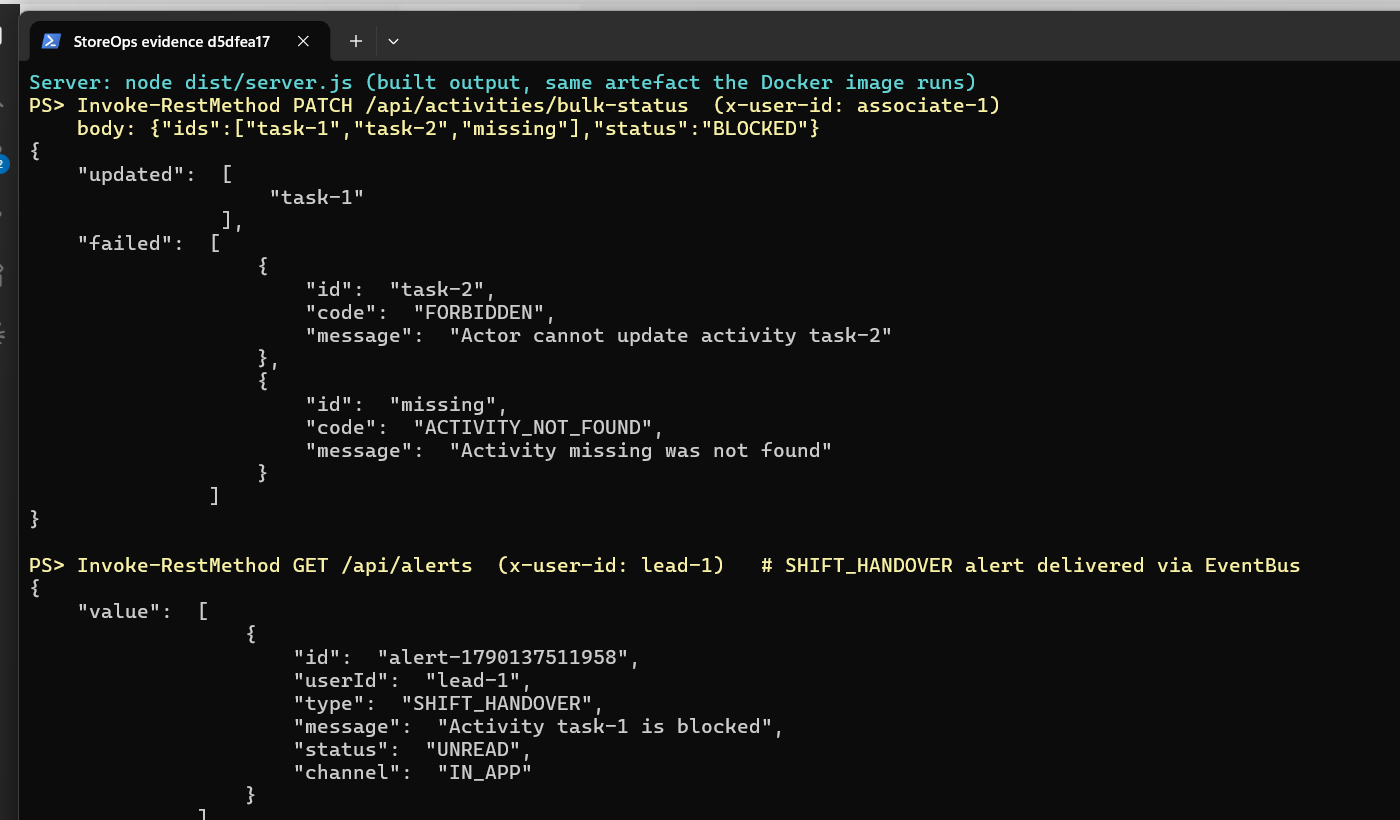
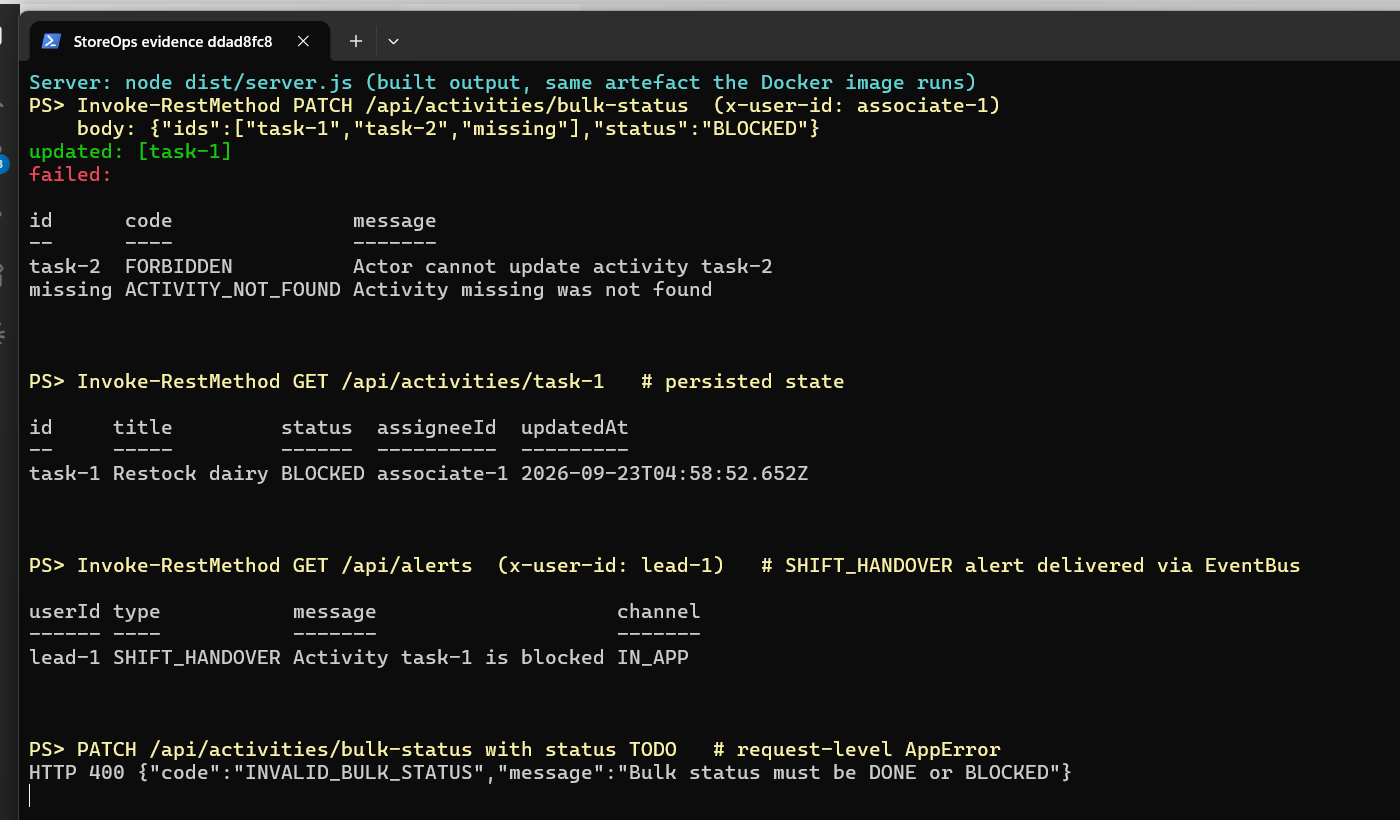
evidence: Docker deployment screenshots and evidence index
Container storeops-api built with docker compose, healthy, serving PATCH /api/activities/bulk-status. Removed screenshots of superseded file versions.

diff --git a/DEPLOYMENT.md b/DEPLOYMENT.md
@@ -1,7 +1,7 @@
 # Deployment
 
 ## Target
-**Local Docker** (the minimum accepted option), using `Dockerfile` and `docker-compose.yml`. A plain Node run is documented as the fallback, and that run is what produced the endpoint evidence so far.
+**Local Docker** (the minimum accepted option), using `Dockerfile` and `docker-compose.yml`, on Docker Desktop 4.91 with the WSL2 backend (Windows 11). The container was built and run with `docker compose up --build -d`, reached `healthy`, and served the new endpoint (see `evidence/19` and `evidence/20`). A plain Node run is documented as the fallback.
 
 ## Configuration decisions
 | Concern | Decision |
@@ -45,8 +45,8 @@ npm start          # node dist/server.js
 | `evidence/16_BULK_STATUS_ENDPOINT.png` | Screenshot: running app, `PATCH /api/activities/bulk-status` with `task-1` in `updated` and `missing` in `failed` (`ACTIVITY_NOT_FOUND`) |
 | `evidence/18_LOCAL_RUN_LOG.txt` | Captured output from the built server (`node dist/server.js`): `/health` UP; a bulk request with one authorized, one forbidden and one missing ID → `updated:["task-1"]`, failures `FORBIDDEN` and `ACTIVITY_NOT_FOUND`; then `GET /api/alerts` for `lead-1` shows the `SHIFT_HANDOVER` alert delivered through EventBus; an invalid status → HTTP 400 |
 | `evidence/21_LOCAL_BUILD_BULK_STATUS.png` | Screenshot: the **built** artefact (`node dist/server.js`, the same file the Docker image runs). The bulk request returns `updated:["task-1"]` with `FORBIDDEN` and `ACTIVITY_NOT_FOUND` failures, and `GET /api/alerts` for `lead-1` shows the `SHIFT_HANDOVER` alert raised through EventBus |
-| `evidence/19_DOCKER_PS.png` | *Captured by* `scripts/capture-evidence.ps1 -Mode docker`: `docker compose ps` showing `storeops-api` Up (healthy), plus container logs and `/health` |
-| `evidence/20_DOCKER_BULK_STATUS.png` | *Captured by the same script:* the bulk-status and alerts calls answered by the container |
+| `evidence/19_DOCKER_PS.png` | **Docker (Docker 29.8.0, Docker Desktop 4.91 with WSL2):** `docker compose ps` shows `storeops-api  storeops-harness:latest  Up (healthy)  0.0.0.0:3000->3000/tcp`, the container log `StoreOps listening on port 3000`, and `/health` → `UP` |
+| `evidence/20_DOCKER_BULK_STATUS.png` | **Docker:** the harness-generated endpoint answered by the container. `updated: [task-1]`; `task-2 FORBIDDEN` and `missing ACTIVITY_NOT_FOUND`; `GET /api/activities/task-1` shows status `BLOCKED` persisted; `GET /api/alerts` for `lead-1` shows the `SHIFT_HANDOVER` alert delivered through EventBus; status `TODO` → `HTTP 400 INVALID_BULK_STATUS` |
 
 Screenshots are taken with `scripts/capture-evidence.ps1`. It opens a real console window, runs the commands, and captures that window.
 

diff --git a/evidence/README.md b/evidence/README.md
@@ -1,0 +1,26 @@
+# Evidence Index
+
+Screenshots captured during the sprint-1 demonstration run and the deployment. The artefacts they show are committed in full under `.harness/reviews/`. Read those files for the complete text.
+
+| File | Harness stage | Shows |
+|---|---|---|
+| `02_PROMPT.png` | Entry | `PROMPT.md` feature prompt used with `@planner` |
+| `03_PLANNER_SPEC.png` | Planner | `spec.md` produced by the Planner |
+| `04_SPRINT_CONTRACT.png` | Planner | `sprint-1-contract.md` |
+| `10_PLANNER_RUN.png` | Planner → approval gate | Claude Code Planner output: AC table mapped to PROMPT requirements and hard gates, ending "reply **APPROVED** to advance to the Generator stage" |
+| `05_GENERATOR_SUMMARY.png` | Generator | `sprint-1-generator-summary.md` |
+| `11_GENERATOR_RUN.png` | Generator | Claude Code Generator completion: double-emit defect fixed, test gaps closed, all checks green |
+| `06_EVALUATOR_FEEDBACK.png` | Evaluator | `sprint-1-evaluator-feedback.md` |
+| `12_EVALUATOR_RUN.png` | Evaluator | Dimension scores (weighted 96.75) and hard-gate table as written |
+| `13_EVALUATOR_DETAILS.png` | Evaluator | AC → file:line evidence and verdict reasoning |
+| `07_MONITOR_RUN_LOG.png` | Monitor | `sprint-1-run-log.md` |
+| `14_MONITOR_RUN.png` | Monitor | Claude Code Monitor completion: sprint ID, verdict, 1 of 3 iterations, escalation not triggered, token estimate |
+| `15_FINAL_VERIFY.png` | Verification | `npm run verify` exit 0 after the run |
+| `16_BULK_STATUS_ENDPOINT.png` | Running app | First manual call of `PATCH /api/activities/bulk-status` (partial failure) |
+| `17_CLAUDE_CODE_VERSION.png` | Tooling | Claude Code 2.1.197 |
+| `18_LOCAL_RUN_LOG.txt` | Running app | Captured HTTP output from the built server |
+| `19_DOCKER_PS.png` | **Docker deployment** | `docker compose ps`: `storeops-api` **Up (healthy)** on `0.0.0.0:3000`, container log, `/health` UP |
+| `20_DOCKER_BULK_STATUS.png` | **Docker deployment** | The harness-generated endpoint answered by the container: `updated:[task-1]`, `FORBIDDEN` + `ACTIVITY_NOT_FOUND` partial failures, task-1 persisted `BLOCKED`, `SHIFT_HANDOVER` alert delivered via EventBus, `400 INVALID_BULK_STATUS` |
+| `21_LOCAL_BUILD_BULK_STATUS.png` | Running app | The same calls against `node dist/server.js` |
+
+Screenshots 19–21 were captured with `scripts/capture-evidence.ps1`, which opens a real console window, runs the commands and captures that window.

diff --git a/SUBMISSION_CHECKLIST.md b/SUBMISSION_CHECKLIST.md
@@ -26,7 +26,7 @@
 - [x] Final code in `src/`
 - [x] `DEPLOYMENT.md` + `evidence/16_BULK_STATUS_ENDPOINT.png` + `evidence/18_LOCAL_RUN_LOG.txt`
 - [x] `REFLECTION.md`: a specific limitation seen in the run, concrete improvements, linked to Design Brief D2
-- [ ] `evidence/19_DOCKER_PS.png` and `evidence/20_DOCKER_BULK_STATUS.png` (need Docker Desktop)
+- [x] `evidence/19_DOCKER_PS.png` (container Up, healthy) and `evidence/20_DOCKER_BULK_STATUS.png` (the new endpoint answered by the container)
 - [ ] Screenshot of the developer typing `APPROVED` (if available from the run session)
 
 ## Bonus
